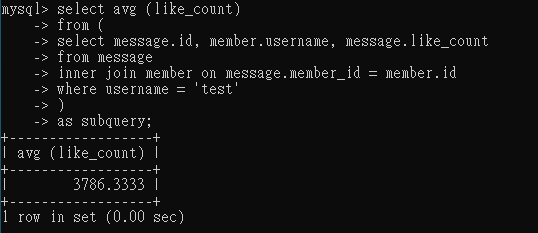
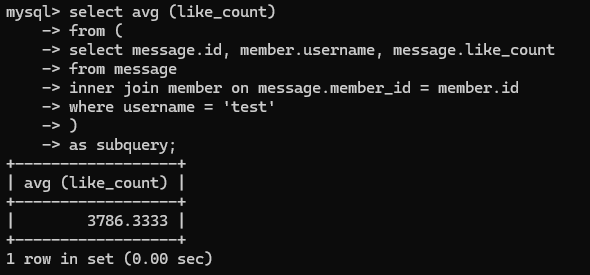
update 0501

Changed region(s): [[0.0, 0.0, 0.9517, 0.4807], [0.0, 0.4807, 0.3569, 0.9614]]

diff --git a/week5/README.md b/week5/README.md
@@ -199,7 +199,9 @@ alter table message
     -> modify like_count int unsigned not null default 0;
 alter table message
     -> modify time datetime not null default current_timestamp;
-```
+```  
+
+![statement 5-1_1](images/statement_5-1_1.png)  
 
 ```MySql
 insert into message (member_id, content, like_count) values ('1', 'test message content', '5');
@@ -209,7 +211,7 @@ insert into message (member_id, content, like_count) values ('4', '他不好', '
 insert into message (member_id, content, like_count) values ('1', '謝謝', '10000');
 ```
 
-![statement 5-1](images/statement_5-1.png)  
+![statement 5-1_2](images/statement_5-1_2.png)  
 
 ### SELECT all messages, including sender names. We have to JOIN the member table to get that.
 *SQL Statement*  
@@ -255,12 +257,16 @@ select avg (like_count)
 
 ```MySql
 select username, avg (like_count)
-    -> from (select message.id, member.username, message.like_count from message inner join member on message.member_id = member.id) as subquery
+    -> from (
+        select message.id, member.username, message.like_count 
+        from message 
+        inner join member on message.member_id = member.id
+        ) 
+    -> as subquery
     -> group by username;
 ```  
 
 ![statement 5-5](images/statement_5-5.png) 
-
 
 
 
